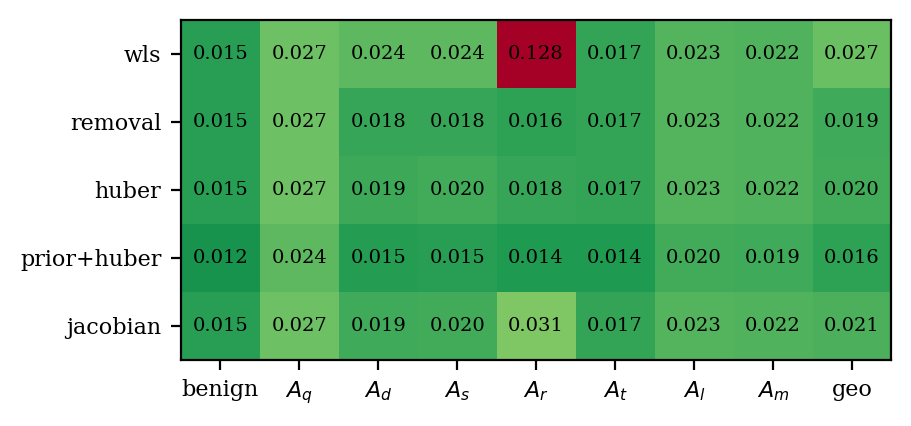
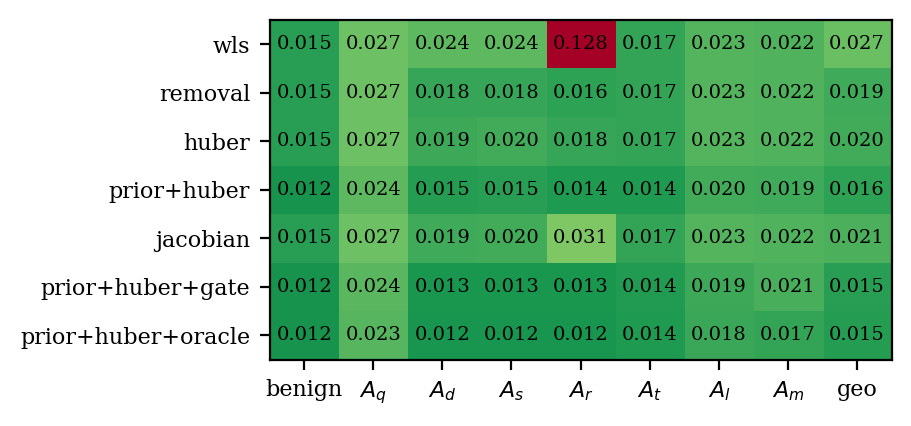
SE guide: IEEE-300 gated results (#149)
* SE guide: the IEEE-300 gated results

* SE guide: the IEEE-300 command runs single-threaded, as the results did

---------

diff --git a/docs/se/README.md b/docs/se/README.md
@@ -41,7 +41,6 @@ rep  = est.score(test)      # per-family angle/voltage MAE vs the clean truth
 | Huber `c` / rank fraction | 1.5 / 0.20 (14), 2.5 / 0.50 (118), 6.0 / 0.50 (300) |
 | removal threshold | 4.0 (14), 5.0 (118), 5.0 (300); on IEEE-300 it runs 2.4 hours (the per-record observability guard) and cuts the WLS angle error 28% |
 | cell | geometric mean of the MAE over the eight record classes (benign and the seven families); full metrics in `results/se_ieee{14,118,300}.json` |
-| data | release v0.8.3; the two gated IEEE-300 cells are pending a rerun |
 
 **Estimator comparison** (bold marks the proposed rows, not the best cell)
 
@@ -53,8 +52,8 @@ rep  = est.score(test)      # per-family angle/voltage MAE vs the clean truth
 | Adaptive weighting | 0.057 | 0.014 | 0.020 |
 | **Prior + Huber (proposed)** | **0.050** | **0.010** | **0.016** |
 | Jacobian weighting | 0.076 | 0.016 | 0.021 |
-| **Prior + Huber + CNN gate** | **0.044** | **0.010** |  |
-| Prior + Huber + oracle gate (ceiling) | 0.041 | 0.010 |  |
+| **Prior + Huber + CNN gate** | **0.044** | **0.010** | **0.015** |
+| Prior + Huber + oracle gate (ceiling) | 0.041 | 0.010 | 0.015 |
 | WLS error reduction | 45% | 50% | 40% |
 
 | Estimator | IEEE 14 | IEEE 118 | IEEE 300 |
@@ -65,8 +64,8 @@ rep  = est.score(test)      # per-family angle/voltage MAE vs the clean truth
 | Adaptive weighting | 0.540 | 0.122 | 0.177 |
 | **Prior + Huber (proposed)** | **0.160** | **0.029** | **0.064** |
 | Jacobian weighting | 0.695 | 0.138 | 0.183 |
-| **Prior + Huber + CNN gate** | **0.239** | **0.032** |  |
-| Prior + Huber + oracle gate (ceiling) | 0.212 | 0.034 |  |
+| **Prior + Huber + CNN gate** | **0.239** | **0.032** | **0.063** |
+| Prior + Huber + oracle gate (ceiling) | 0.212 | 0.034 | 0.059 |
 | WLS error reduction | 81% | 84% | 71% |
 
 | paper (v0.4.1 data) | 14 | 118 | 300 |
@@ -133,20 +132,20 @@ gate, and with the true labels as the gate (the ceiling for any gate). IEEE-14 t
 | | IEEE 14 | | | IEEE 118 | | | IEEE 300 | | |
 |---|---:|---:|---:|---:|---:|---:|---:|---:|---:|
 | angle MAE (deg) | proposed | + CNN gate | + oracle | proposed | + CNN gate | + oracle | proposed | + CNN gate | + oracle |
-| Aq stealthy re-solve | 0.355 | 0.300 | 0.301 | 0.0181 | 0.0176 | 0.0168 | 0.0241 | pending | pending |
-| Ad / As / Ar in place | 0.026 / 0.071 / 0.032 | 0.022 / 0.021 / 0.022 | 0.020 / 0.020 / 0.020 | 0.0094 / 0.0103 / 0.0080 | 0.0082 / 0.0082 / 0.0083 | 0.0074 / 0.0075 / 0.0073 | 0.0146 / 0.0154 / 0.0140 | pending | pending |
-| At slow ramp | 0.066 | 0.070 | 0.060 | 0.0084 | 0.0092 | 0.0085 | 0.0136 | pending | pending |
-| Al redistribution | 0.048 | 0.076 | 0.075 | 0.0147 | 0.0182 | 0.0178 | 0.0196 | pending | pending |
-| Am multi-snapshot | 0.046 | 0.062 | 0.059 | 0.0106 | 0.0115 | 0.0148 | 0.0194 | pending | pending |
-| geometric mean | 0.050 | **0.044** | 0.041 | **0.0102** | 0.0103 | 0.0100 | 0.0161 | pending | pending |
+| Aq stealthy re-solve | 0.355 | 0.300 | 0.301 | 0.0181 | 0.0176 | 0.0168 | 0.0241 | 0.0239 | 0.0234 |
+| Ad / As / Ar in place | 0.026 / 0.071 / 0.032 | 0.022 / 0.021 / 0.022 | 0.020 / 0.020 / 0.020 | 0.0094 / 0.0103 / 0.0080 | 0.0082 / 0.0082 / 0.0083 | 0.0074 / 0.0075 / 0.0073 | 0.0146 / 0.0154 / 0.0140 | 0.0128 / 0.0128 / 0.0129 | 0.0122 / 0.0122 / 0.0122 |
+| At slow ramp | 0.066 | 0.070 | 0.060 | 0.0084 | 0.0092 | 0.0085 | 0.0136 | 0.0144 | 0.0137 |
+| Al redistribution | 0.048 | 0.076 | 0.075 | 0.0147 | 0.0182 | 0.0178 | 0.0196 | 0.0187 | 0.0185 |
+| Am multi-snapshot | 0.046 | 0.062 | 0.059 | 0.0106 | 0.0115 | 0.0148 | 0.0194 | 0.0205 | 0.0175 |
+| geometric mean | 0.050 | **0.044** | 0.041 | **0.0102** | 0.0103 | 0.0100 | 0.0161 | **0.0155** | 0.0147 |
 
 | families | what the gate does | why |
 |---|---|---|
-| `Ad` `As` `Ar` (in place) | finishes the job: the CNN gate takes them to 0.021 to 0.022 on 14 and 0.0082 to 0.0083 on 118, next to the oracle's 0.020 and 0.0073 to 0.0075 | the flagged bus's meters are the corrupted ones, the prior fills a hole that held nothing true |
-| `Aq` `At` `Al` `Am` (stealthy) | makes `Al` and `Am` worse on 14 and 118, with the true labels too: `Al` 0.048 → 0.076 on 14, 0.0147 → 0.0182 on 118; it improves `Aq` on 14 (0.355 → 0.300) | a local false state is a consistent AC state, so the flagged bus's meters are the evidence the prior was using; pulled out, the prior guesses from the neighbours, which describe the false state |
+| `Ad` `As` `Ar` (in place) | finishes the job at every size: the CNN gate takes them to 0.021 to 0.022 on 14, 0.0082 to 0.0083 on 118 and 0.0128 to 0.0129 on 300, next to the oracle's 0.020, 0.0073 to 0.0075 and 0.0122 | the flagged bus's meters are the corrupted ones, the prior fills a hole that held nothing true |
+| `Aq` `At` `Al` `Am` (stealthy) | makes `Al` and `Am` worse on 14 and 118, with the true labels too: `Al` 0.048 → 0.076 on 14, 0.0147 → 0.0182 on 118; on 300 it improves `Al` (0.0196 → 0.0187) and makes `At` (0.0136 → 0.0144) and `Am` (0.0194 → 0.0205) slightly worse; it improves `Aq` on 14 (0.355 → 0.300) | a local false state is a consistent AC state, so the flagged bus's meters are the evidence the prior was using; pulled out, the prior guesses from the neighbours, which describe the false state |
 
-The CNN gate lowers the geometric mean 12% on IEEE-14 (0.050 to 0.044) and costs 1% on 118 (0.0102
-to 0.0103): the in-place families (and `Aq` on 14) gain, and the stealthy-family losses (`Al` and
+The CNN gate lowers the geometric mean 12% on IEEE-14 (0.050 to 0.044) and 4% on 300 (0.0161 to
+0.0155) and costs 1% on 118 (0.0102 to 0.0103): the in-place families (and `Aq` on 14) gain, and the stealthy-family losses (`Al` and
 `Am` most) offset that gain on 118. The gate pays most when it has something true to leave in: with
 20 meters secured by the DQN selector of [`../trust/README.md`](../trust/README.md) and exempt from
 the gate, IEEE-14 goes from 0.050 degrees to 0.031 with the secured meters alone and to 0.017 with
@@ -158,12 +157,12 @@ previous scan, the temporal direction.
 ```bash
 FG_SYSTEM=ieee14 python docs/se/run_se.py      # fits, writes results/se_ieee14.json (estimates cached per arm)
 FG_SYSTEM=ieee118 python docs/se/run_se.py
-FG_SYSTEM=ieee300 python docs/se/run_se.py
+OMP_NUM_THREADS=1 FG_SYSTEM=ieee300 python docs/se/run_se.py   # single-threaded: multi-threaded, the gated arms hung in the OpenMP runtime
 python docs/se/make_report.py                  # tables (markdown) + figures + CSV from the JSON
 ```
 
 | | |
 |---|---|
 | skip arms | `FG_SKIP=removal,...` (every published column ran every arm) |
-| wall time, CPU, IEEE-300 (v0.8.3 run, sharing the CPU with two other guide jobs) | WLS 24 s, residual removal 2.4 h, Huber 2.7 h, prior + Huber 53 min, Jacobian weighting 4 min; the gated arms are being rerun single-threaded after the first run hung inside the OpenMP runtime |
+| wall time, CPU, IEEE-300 (v0.8.3 run, sharing the CPU with two other guide jobs) | WLS 24 s, residual removal 2.4 h, Huber 2.7 h, prior + Huber 53 min, Jacobian weighting 4 min; each gated arm 1.6 h run single-threaded (`OMP_NUM_THREADS=1`), after a multi-threaded run hung inside the OpenMP runtime |
 | re-runs | score from `results/cache/` in about a minute per arm |
